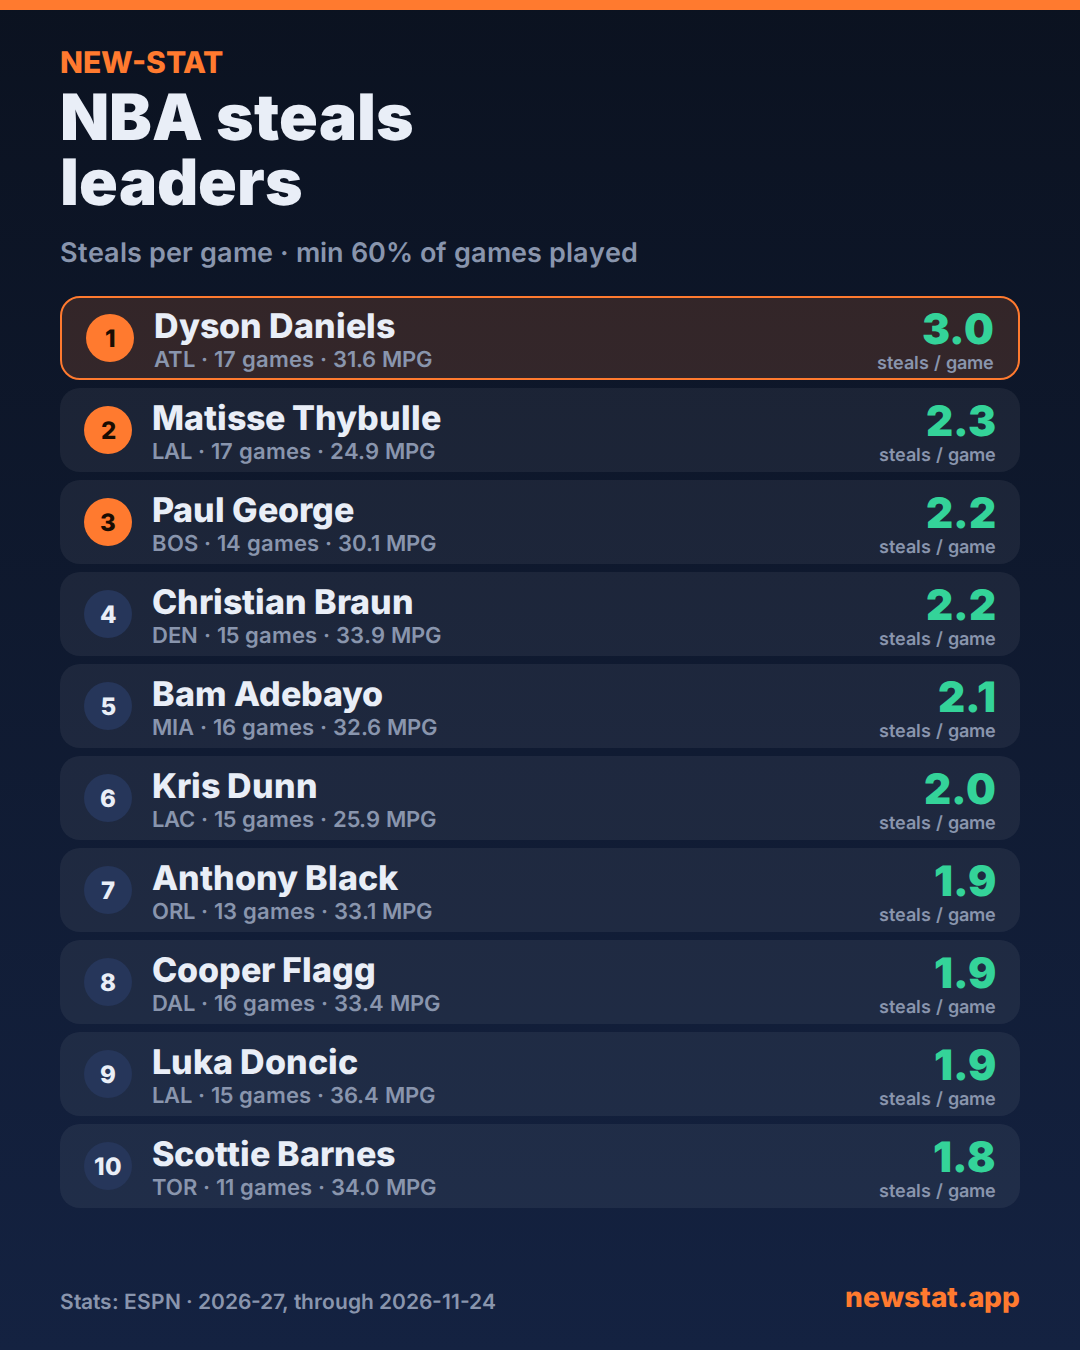
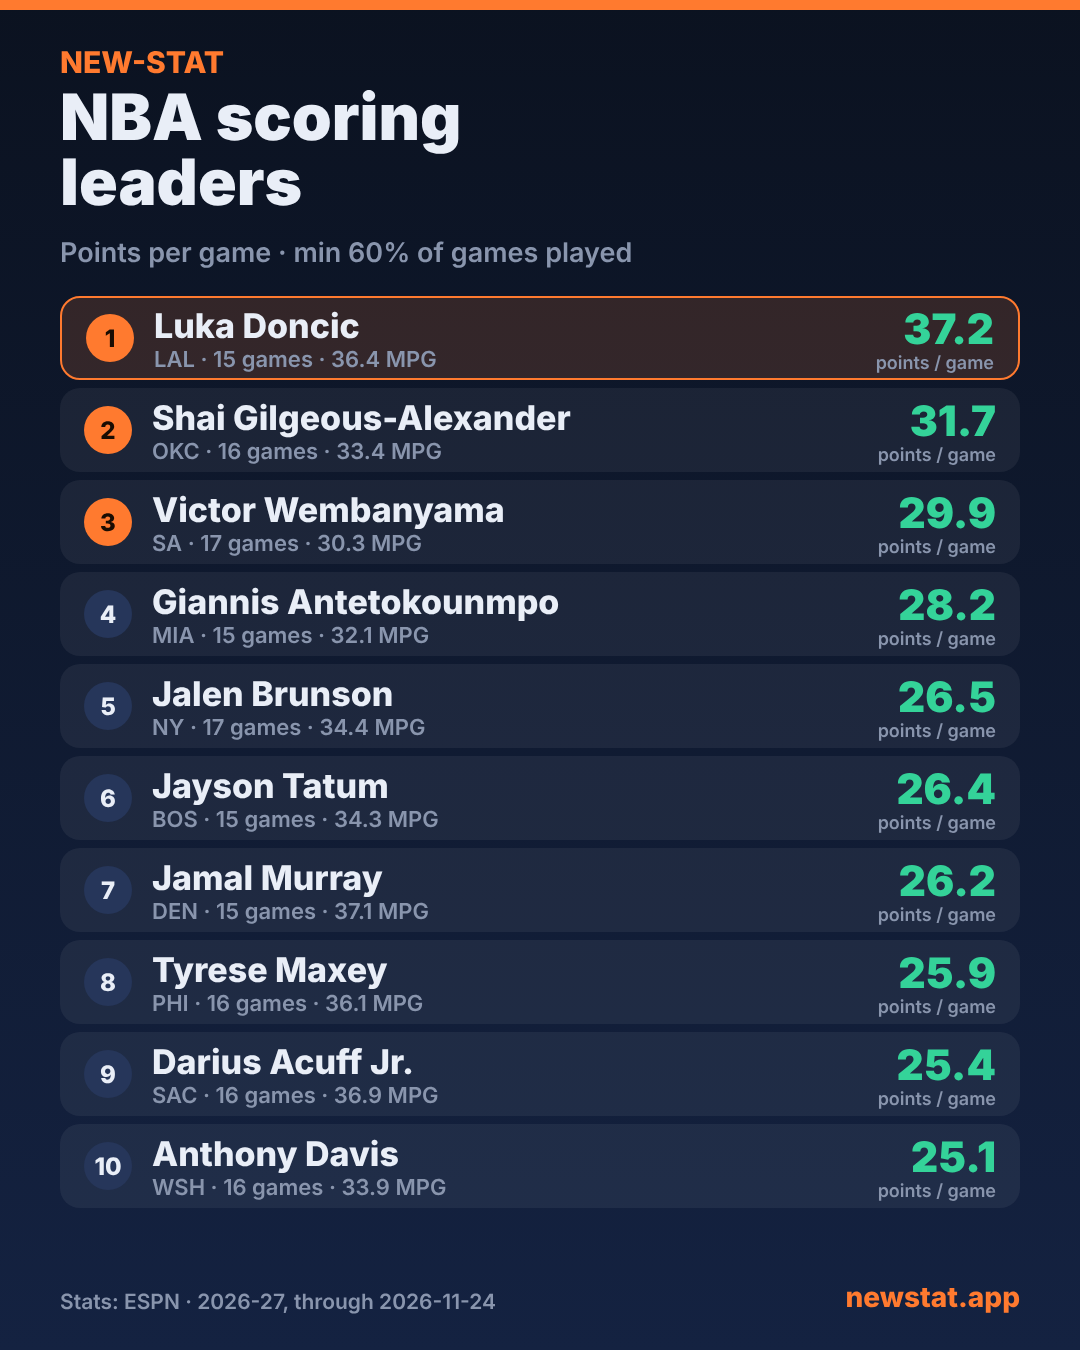
Chart posts, takeaways, and refresh stats before each daily post
Claude-Session: https://claude.ai/code/session_01ULCeSyacHEJdv1tTpLNvaG

diff --git a/make_post.py b/make_post.py
@@ -8,6 +8,9 @@ os.chdir(ROOT)
 stats = json.load(open("stats.json"))
 players = stats["players"]
 upd = (stats.get("updated") or "")[:10]
+_age = datetime.now(timezone.utc) - datetime.fromisoformat((stats.get("updated") or "1970-01-01T00:00:00+00:00").replace("Z", "+00:00"))
+if _age > timedelta(hours=30) and not os.environ.get("ALLOW_STALE"):
+    sys.exit(f"stats.json is {_age} old, not making a post from stale numbers")
 maxgp = max(p["GP"] for p in players)
 qual = [p for p in players if p["GP"] >= max(5, 0.6 * maxgp) and p["MIN"] >= 15]
 
@@ -105,34 +108,256 @@ THEMES += [
 ]
 
 
-def caption(title, rows, key, sub):
+# ---------------- chart posts ----------------
+def nice_ticks(lo, hi, n=5):
+    import math
+    span = hi - lo or 1
+    step = 10 ** math.floor(math.log10(span / n))
+    for m in (1, 2, 2.5, 5, 10):
+        if span / (step * m) <= n:
+            step *= m
+            break
+    t = math.ceil(lo / step) * step
+    out = []
+    while t <= hi + 1e-9:
+        out.append(round(t, 6))
+        t += step
+    return out
+
+
+def scatter_svg(pts, xt, yt, W=960, H=790, inv_y=False, hl=None, xref=None, yref=None, quad=None, pad=0.06, xfmt="{:g}", yfmt="{:g}"):
+    """pts: list of dict(x,y,label,hi). Draws dots, labels for pts with label, reference lines."""
+    L, R, T, B = 98, 18, 14, 66
+    xs = [p["x"] for p in pts]; ys = [p["y"] for p in pts]
+    xl, xh = min(xs), max(xs); yl, yh = min(ys), max(ys)
+    xp = (xh - xl) * pad or 1; yp = (yh - yl) * pad or 1
+    xl -= xp; xh += xp; yl -= yp; yh += yp
+    sx = lambda v: L + (v - xl) / (xh - xl) * (W - L - R)
+    sy = (lambda v: T + (v - yl) / (yh - yl) * (H - T - B)) if inv_y else (lambda v: H - B - (v - yl) / (yh - yl) * (H - T - B))
+    o = [f'<svg xmlns="http://www.w3.org/2000/svg" width="{W}" height="{H}" viewBox="0 0 {W} {H}" font-family="Inter,Helvetica,Arial,sans-serif">']
+    for v in nice_ticks(xl, xh):
+        o.append(f'<line x1="{sx(v):.1f}" y1="{T}" x2="{sx(v):.1f}" y2="{H-B}" stroke="#ffffff" stroke-opacity=".07"/><text x="{sx(v):.1f}" y="{H-B+30}" fill="#8995ad" font-size="22" font-weight="600" text-anchor="middle">{xfmt.format(v)}</text>')
+    for v in nice_ticks(yl, yh):
+        o.append(f'<line x1="{L}" y1="{sy(v):.1f}" x2="{W-R}" y2="{sy(v):.1f}" stroke="#ffffff" stroke-opacity=".07"/><text x="{L-10}" y="{sy(v)+8:.1f}" fill="#8995ad" font-size="22" font-weight="600" text-anchor="end">{yfmt.format(v)}</text>')
+    if xref is not None:
+        o.append(f'<line x1="{sx(xref):.1f}" y1="{T}" x2="{sx(xref):.1f}" y2="{H-B}" stroke="#ff7a2f" stroke-opacity=".55" stroke-dasharray="7 7" stroke-width="2"/>')
+    if yref is not None:
+        o.append(f'<line x1="{L}" y1="{sy(yref):.1f}" x2="{W-R}" y2="{sy(yref):.1f}" stroke="#ff7a2f" stroke-opacity=".55" stroke-dasharray="7 7" stroke-width="2"/>')
+    if hl:
+        (x1, y1), (x2, y2) = hl
+        o.append(f'<line x1="{sx(x1):.1f}" y1="{sy(y1):.1f}" x2="{sx(x2):.1f}" y2="{sy(y2):.1f}" stroke="#8995ad" stroke-opacity=".7" stroke-width="2.5"/>')
+    o.append(f'<text x="{(L+W-R)/2:.0f}" y="{H-8}" fill="#e9eef7" font-size="24" font-weight="700" text-anchor="middle">{html.escape(xt)}</text>')
+    o.append(f'<text transform="translate(22 {(T+H-B)/2:.0f}) rotate(-90)" fill="#e9eef7" font-size="24" font-weight="700" text-anchor="middle">{html.escape(yt)}</text>')
+    if quad:
+        for (qx, qy, anchor, txt) in quad:
+            o.append(f'<text x="{qx}" y="{qy}" fill="#ff7a2f" fill-opacity=".85" font-size="21" font-weight="800" text-anchor="{anchor}">{html.escape(txt)}</text>')
+    # dots first
+    for p in pts:
+        if not p.get("label"):
+            o.append(f'<circle cx="{sx(p["x"]):.1f}" cy="{sy(p["y"]):.1f}" r="6" fill="#5b7fc7" fill-opacity=".75"/>')
+    boxes = [(sx(q["x"]) - 9, sy(q["y"]) - 9, sx(q["x"]) + 9, sy(q["y"]) + 9) for q in pts]
+    def area(b):
+        a = 0
+        for c in boxes:
+            ox = min(b[2], c[2]) - max(b[0], c[0]); oy = min(b[3], c[3]) - max(b[1], c[1])
+            if ox > 0 and oy > 0:
+                a += ox * oy
+        if b[0] < L: a += (L - b[0]) * 400
+        if b[2] > W - R: a += (b[2] - (W - R)) * 400
+        if b[1] < T: a += (T - b[1]) * 400
+        if b[3] > H - B: a += (b[3] - (H - B)) * 400
+        return a
+    placed = []
+    for p in sorted([q for q in pts if q.get("label")], key=lambda q: -q.get("w", 0)):
+        cx, cy = sx(p["x"]), sy(p["y"])
+        o.append(f'<circle cx="{cx:.1f}" cy="{cy:.1f}" r="9" fill="{p.get("c", "#ff7a2f")}" stroke="#0b1220" stroke-width="2.5"/>')
+        fs = 22
+        w = len(p["label"]) * fs * 0.6
+        best = None
+        cands = [(14, -10, "start"), (-14, -10, "end"), (14, 26, "start"), (-14, 26, "end"), (0, -20, "middle"), (0, 40, "middle"),
+                 (14, 8, "start"), (-14, 8, "end"), (28, -26, "start"), (-28, -26, "end"), (28, 42, "start"), (-28, 42, "end"), (0, -44, "middle"), (0, 64, "middle")]
+        for dx, dy, anc in cands:
+            x0 = cx + dx - (0 if anc == "start" else w if anc == "end" else w / 2)
+            b = (x0, cy + dy - fs, x0 + w, cy + dy + 6)
+            a = area(b)
+            if best is None or a < best[0]:
+                best = (a, dx, dy, anc, b)
+            if a == 0:
+                break
+        _, dx, dy, anc, b = best
+        boxes.append(b)
+        placed.append((cx, cy, dx, dy, anc, p["label"]))
+    for cx, cy, dx, dy, anc, lab in placed:
+        o.append(f'<text x="{cx+dx:.1f}" y="{cy+dy:.1f}" fill="#fff" font-size="22" font-weight="800" text-anchor="{anc}" stroke="#0b1220" stroke-width="5" paint-order="stroke">{html.escape(lab)}</text>')
+    o.append("</svg>")
+    return "".join(o)
+
+
+def chart_page(title, sub, svg, take, foot):
+    css = CSS + '.chart{position:absolute;left:60px;top:290px}.take{position:absolute;left:60px;right:60px;top:1112px;height:150px;border-radius:20px;background:rgba(255,122,47,.14);border:2px solid #ff7a2f;padding:18px 24px;font-size:28px;font-weight:700;line-height:1.28;display:flex;align-items:center}.take i{color:#ff7a2f;font-style:normal;font-weight:900;margin-right:10px}'
+    return (f'<!doctype html><meta charset=utf-8><style>{css}</style><div class=bar></div><div class=brand>NEW-STAT</div>'
+            f'<h1>{title}</h1><div class=sub>{sub}</div><div class=chart>{svg}</div><div class=take><div><i>TAKEAWAY</i>{html.escape(take)}</div></div>'
+            f'<div class=ft><span>{foot}</span><b>newstat.app</b></div>')
+
+
+from collections import Counter
+_LN = Counter(p["PLAYER"].split(" ", 1)[-1] for p in players)
+
+
+def last(p):
+    ln = p["PLAYER"].split(" ", 1)[-1]
+    return f'{p["PLAYER"][0]}. {ln}' if _LN[ln] > 1 else ln
+
+
+def join_names(names):
+    names = list(names)
+    return names[0] if len(names) == 1 else ", ".join(names[:-1]) + " and " + names[-1]
+
+
+def ch_teams():
+    T = json.load(open("data/teams/2027.json"))["teams"]
+    pts = [dict(x=t["ORTG"], y=t["DRTG"], label=t["TEAM"], w=abs(t["NRTG"]), c="#34d399" if t["NRTG"] > 0 else "#f87171") for t in T]
+    ao = sum(t["ORTG"] for t in T) / len(T); ad = sum(t["DRTG"] for t in T) / len(T)
+    by_o = sorted(T, key=lambda t: -t["ORTG"]); by_d = sorted(T, key=lambda t: t["DRTG"])
+    ro = {t["TEAM"]: i + 1 for i, t in enumerate(by_o)}; rd = {t["TEAM"]: i + 1 for i, t in enumerate(by_d)}
+    gap = max(T, key=lambda t: abs(ro[t["TEAM"]] - rd[t["TEAM"]]))
+    best = max(T, key=lambda t: t["NRTG"]); worst = min(T, key=lambda t: t["NRTG"])
+    take = (f'{best["TEAM"]} is the only team in elite territory on both ends ({best["NRTG"]:+.1f} net)' if ro[best["TEAM"]] <= 5 and rd[best["TEAM"]] <= 5 else
+            f'{best["TEAM"]} leads the league at {best["NRTG"]:+.1f} net rating') + f'. Biggest split: {gap["TEAM"]} is #{ro[gap["TEAM"]]} on offense but #{rd[gap["TEAM"]]} on defense. {worst["TEAM"]} is last at {worst["NRTG"]:+.1f}.'
+    svg = scatter_svg(pts, "Offense: points scored per 100 possessions (better →)", "Defense: points allowed per 100 (better ↑)", inv_y=True, xref=ao, yref=ad,
+                      quad=[(930, 30, "end", "ELITE BOTH WAYS"), (95, 780 - 90, "start", "STRUGGLING")])
+    return ("Every NBA team:<br>offense vs defense", "Green = positive net rating · dashed lines = league average", svg, take, f"Stats: ESPN · 2026-27, through {upd}", "team ratings")
+
+
+def ch_usage():
+    pool = [p for p in players if p["GP"] >= max(5, 0.6 * maxgp) and p["MIN"] >= 24 and isinstance(p.get("USG_PCT"), (int, float)) and isinstance(p.get("TS_PCT"), (int, float))]
+    avg = sum(p["TS_PCT"] for p in pool) / len(pool)
+    star = sorted(pool, key=lambda p: -p["PTS"])[:14]
+    elite = [p for p in pool if p["USG_PCT"] >= 28 and p["TS_PCT"] >= avg + 5]
+    pts = [dict(x=p["USG_PCT"], y=p["TS_PCT"], label=last(p) if p in star or p in elite else None, w=p["PTS"]) for p in pool]
+    take = (f'{len(elite)} players use 28%+ of their team\'s plays and still shoot 5+ points above the average TS%: {join_names([last(p) for p in sorted(elite, key=lambda p: -p["TS_PCT"])[:5]])}.'
+            if elite else 'High usage usually costs efficiency: the more plays a player uses, the harder the shots get.')
+    svg = scatter_svg(pts, "Usage: share of team plays used while on the floor (%)", "True shooting % (efficiency)", xref=sum(p["USG_PCT"] for p in pool) / len(pool), yref=avg,
+                      quad=[(930, 30, "end", "HIGH LOAD, HIGH EFFICIENCY"), (95, 780 - 90, "start", "LOW LOAD, LOW EFFICIENCY")], xfmt="{:g}%", yfmt="{:g}%")
+    return ("Who carries the load<br>efficiently?", f"Players with 24+ MPG · dashed lines = average of this group", svg, take, f"Stats: ESPN · 2026-27, through {upd}", "usage vs TS")
+
+
+def ch_playmakers():
+    pool = [p for p in qual if p["AST"] >= 4 and p["TOV"] > 0]
+    top = sorted(pool, key=lambda p: -p["AST"])[:12]
+    ratio = sorted([p for p in pool if p["AST"] >= 6], key=lambda p: -p["AST"] / p["TOV"])
+    bad = max(pool, key=lambda p: p["TOV"])
+    pts = [dict(x=p["AST"], y=p["TOV"], label=last(p) if (p in top or p in ratio[:3] or p is bad) else None, w=p["AST"]) for p in pool]
+    take = (f'{ratio[0]["PLAYER"]} has the best assist-to-turnover ratio among 6+ assist players ({ratio[0]["AST"]/ratio[0]["TOV"]:.1f} to 1). '
+            f'{bad["PLAYER"]} coughs it up the most ({bad["TOV"]:.1f}/game) but produces {bad["AST"]:.1f} assists.') if ratio else "Playmaking comes with giveaways."
+    svg = scatter_svg(pts, "Assists per game", "Turnovers per game (lower is better)", inv_y=True, quad=[(930, 30, "end", "SAFE PLAYMAKERS"), (95, 780 - 90, "start", "RISKY")], pad=0.08)
+    return ("Playmakers: assists<br>vs turnovers", "Players averaging 4+ assists · higher = fewer turnovers", svg, take, f"Stats: ESPN · 2026-27, through {upd}", "ast vs tov")
+
+
+def ch_bench():
+    pool = [p for p in players if p["GP"] >= max(5, 0.6 * maxgp) and 12 <= p["MIN"] <= 40 and isinstance(p.get("PER"), (int, float))]
+    gems = sorted([p for p in pool if p["MIN"] < 26 and p["PER"] >= 18], key=lambda p: -p["PER"])[:6]
+    stars = sorted(pool, key=lambda p: -p["PER"])[:6]
+    pts = [dict(x=p["MIN"], y=p["PER"], label=last(p) if (p in gems or p in stars) else None, c="#34d399" if p in gems else "#ff7a2f", w=p["PER"]) for p in pool]
+    take = (f'Producing in limited minutes: {join_names([f"{last(p)} ({p["PER"]:.0f} PER in {p["MIN"]:.0f} MPG)" for p in gems[:4]])}. The league average PER is 15.' if gems else 'No low-minute players are producing at a star level right now.')
+    svg = scatter_svg(pts, "Minutes per game", "PER (player efficiency rating, 15 = average)", yref=15, quad=[(115, 30, "start", "UNDERUSED?")])
+    return ("Who deserves<br>more minutes?", "Green = producing in under 26 minutes", svg, take, f"Stats: ESPN · 2026-27, through {upd}", "minutes vs per")
+
+
+def ch_age():
+    pool = [p for p in players if p["GP"] >= max(5, 0.6 * maxgp) and p["MIN"] >= 18 and isinstance(p.get("AGE"), (int, float))]
+    young = sorted([p for p in pool if p["AGE"] <= 23], key=lambda p: -p["PTS"])[:6]
+    old = sorted([p for p in pool if p["AGE"] >= 33], key=lambda p: -p["PTS"])[:3]
+    pts = [dict(x=p["AGE"], y=p["PTS"], label=last(p) if (p in young or p in old) else None, c="#34d399" if p["AGE"] <= 23 else "#ff7a2f", w=p["PTS"]) for p in pool]
+    take = (f'Best scorers 23 and under: {join_names([f"{last(p)} ({p["PTS"]:.1f})" for p in young[:4]])}. ' + (f'Best scorer 33 or older: {last(old[0])} ({old[0]["AGE"]:.0f}) at {old[0]["PTS"]:.1f}.' if old else ""))
+    svg = scatter_svg(pts, "Age", "Points per game", quad=[], xfmt="{:g}")
+    return ("Scoring by age:<br>youth vs experience", "Players with 18+ MPG · green = age 23 or younger", svg, take, f"Stats: ESPN · 2026-27, through {upd}", "age vs pts")
+
+
+def ch_luck():
+    T = json.load(open("data/teams/2027.json"))["teams"]
+    xs = [t["NRTG"] for t in T]; ys = [t["W"] / max(1, t["W"] + t["L"]) * 100 for t in T]
+    n = len(T); mx = sum(xs) / n; my = sum(ys) / n
+    b = sum((x - mx) * (y - my) for x, y in zip(xs, ys)) / sum((x - mx) ** 2 for x in xs); a = my - b * mx
+    res = {t["TEAM"]: (t["W"] / max(1, t["W"] + t["L"]) * 100 - (a + b * t["NRTG"])) * (t["W"] + t["L"]) / 100 for t in T}
+    lucky = sorted(T, key=lambda t: -res[t["TEAM"]])[:3]; unl = sorted(T, key=lambda t: res[t["TEAM"]])[:3]
+    show = {t["TEAM"] for t in lucky + unl}
+    pts = [dict(x=t["NRTG"], y=t["W"] / max(1, t["W"] + t["L"]) * 100, label=t["TEAM"] if t["TEAM"] in show or abs(t["NRTG"]) > 8 else None,
+                c="#34d399" if t["TEAM"] in {l["TEAM"] for l in lucky} else "#f87171" if t["TEAM"] in {l["TEAM"] for l in unl} else "#ff7a2f", w=abs(res[t["TEAM"]])) for t in T]
+    x1, x2 = min(xs), max(xs)
+    take = (f'Winning more than their scoring margin says: {join_names([f"{t["TEAM"]} (+{res[t["TEAM"]]:.1f} wins)" for t in lucky])}. '
+            f'Unlucky: {join_names([f"{t["TEAM"]} ({res[t["TEAM"]]:.1f})" for t in unl])}.')
+    svg = scatter_svg(pts, "Net rating (points per 100 possessions)", "Win %", hl=((x1, a + b * x1), (x2, a + b * x2)), quad=[], xfmt="{:g}", yfmt="{:g}%")
+    return ("Which teams are<br>lucky or unlucky?", "Green = beating their net rating · red = underperforming", svg, take, f"Stats: ESPN · 2026-27, through {upd}", "luck")
+
+
+CHARTS = [ch_teams, ch_usage, ch_playmakers, ch_luck, ch_bench, ch_age]
+
+
+def list_takeaway(rows, key):
+    num = lambda x: float(x.replace("%", "").replace("+", ""))
+    try:
+        a, b, z = num(rows[0][2]), num(rows[1][2]), num(rows[-1][2])
+        vals = [p[key] for p in qual if isinstance(p.get(key), (int, float))] if key in qual[0] else []
+        if vals:
+            avg = sum(vals) / len(vals)
+            return (f'{rows[0][0]} leads at {rows[0][2]}, about {a / avg:.1f}x the average qualifying player ({avg:.1f}). '
+                    f'The #1 spot is {abs(a - b):.1f} clear of #2, and #10 is {abs(a - z):.1f} behind.')
+        return f'{rows[0][0]} is {abs(a - b):.1f} clear of #2, and the gap to #{len(rows)} is {abs(a - z):.1f}.'
+    except Exception:
+        return ""
+
+
+def caption(title, rows, key, sub, take="", is_chart=False):
     t = title.replace("<br>", " ")
+    if is_chart:
+        long = (f"{t} \U0001F4CA\n\n{take}\n\nWho surprises you? Tell us in the comments.\n\nStats through {upd}. Source: ESPN. Every stat, every season, at newstat.app (link in bio).")
+        short = f"{t} \U0001F4CA\n\n{take}\n\nnewstat.app"
+        return long, short
     top3 = "\n".join(f"{i+1}. {r[0]} ({r[1].split(' · ')[0]}) {r[2]}" for i, r in enumerate(rows[:5]))
-    long = (f"{t} 🏀\n\n{top3}\n\n{sub}. Stats through {upd}. Every stat, every season, at newstat.app (link in bio).")
-    short = f"{t} 🏀\n\n" + "\n".join(f"{i+1}. {r[0].split(' ', 1)[-1]} {r[2]}" for i, r in enumerate(rows[:3])) + "\n\nMore at newstat.app"
+    ins = f"\n\n{take}" if take else ""
+    long = f"{t} \U0001F3C0\n\n{top3}{ins}\n\n{sub}. Stats through {upd}. Every stat, every season, at newstat.app (link in bio)."
+    short = f"{t} \U0001F3C0\n\n" + "\n".join(f"{i+1}. {r[0].split(' ', 1)[-1]} {r[2]}" for i, r in enumerate(rows[:3])) + "\n\nMore at newstat.app"
     return long, short
 
 
 def main():
     day = datetime.now(timezone.utc).date()
     forced = sys.argv[1] if len(sys.argv) > 1 else None
-    n = len(THEMES)
-    order = [(day.toordinal() + i) % n for i in range(n)]
-    if forced is not None:
-        order = [int(forced)]
     res = None
-    for idx in order:
-        try:
-            res = THEMES[idx]()
-            if res[2] and len(res[2]) >= 3:
-                break
-        except Exception as e:
-            print("theme", idx, "failed:", e)
+    if forced is not None and forced.startswith("c"):
+        res = CHARTS[int(forced[1:])]()
+    elif forced is not None:
+        res = THEMES[int(forced)]()
+    else:
+        ordn = day.toordinal()
+        use_chart = ordn % 2 == 1
+        pool = CHARTS if use_chart else THEMES
+        order = [(ordn // 2 + i) % len(pool) for i in range(len(pool))]
+        for idx in order:
+            try:
+                r = pool[idx]()
+                if use_chart or (r[2] and len(r[2]) >= 3):
+                    res = r
+                    break
+            except Exception as e:
+                print("theme", idx, "failed:", e)
+        if not res and use_chart:
+            res = THEMES[ordn % len(THEMES)]()
     if not res:
         sys.exit("no theme worked")
-    title, sub, rows, foot, lineup, key = res
+    is_chart = res[5] in ("team ratings", "usage vs TS", "ast vs tov", "luck", "minutes vs per", "age vs pts")
+    title, sub, third, fourth, fifth, key = res
+    if is_chart:
+        svg, take, foot = third, fourth, fifth
+        doc = chart_page(title, sub, svg, take, foot)
+        rows = []
+    else:
+        rows, foot, lineup = third, fourth, fifth
+        doc = page(title, sub, rows, foot, lineup)
+        take = list_takeaway(rows, key)
     os.makedirs("posts", exist_ok=True)
-    open("posts/_p.html", "w").write(page(title, sub, rows, foot, lineup))
+    open("posts/_p.html", "w").write(doc)
     from playwright.sync_api import sync_playwright
     with sync_playwright() as pw:
         b = pw.chromium.launch()
@@ -149,7 +374,7 @@ def main():
     ds = day.isoformat()
     import shutil
     shutil.copy("posts/latest.png", f"posts/{ds}.png")
-    long, short = caption(title, rows, key, sub)
+    long, short = caption(title, rows, key, sub, take, is_chart)
     meta = {"date": ds, "title": title.replace("<br>", " "), "long": long, "short": short}
     hist = []
     try:
